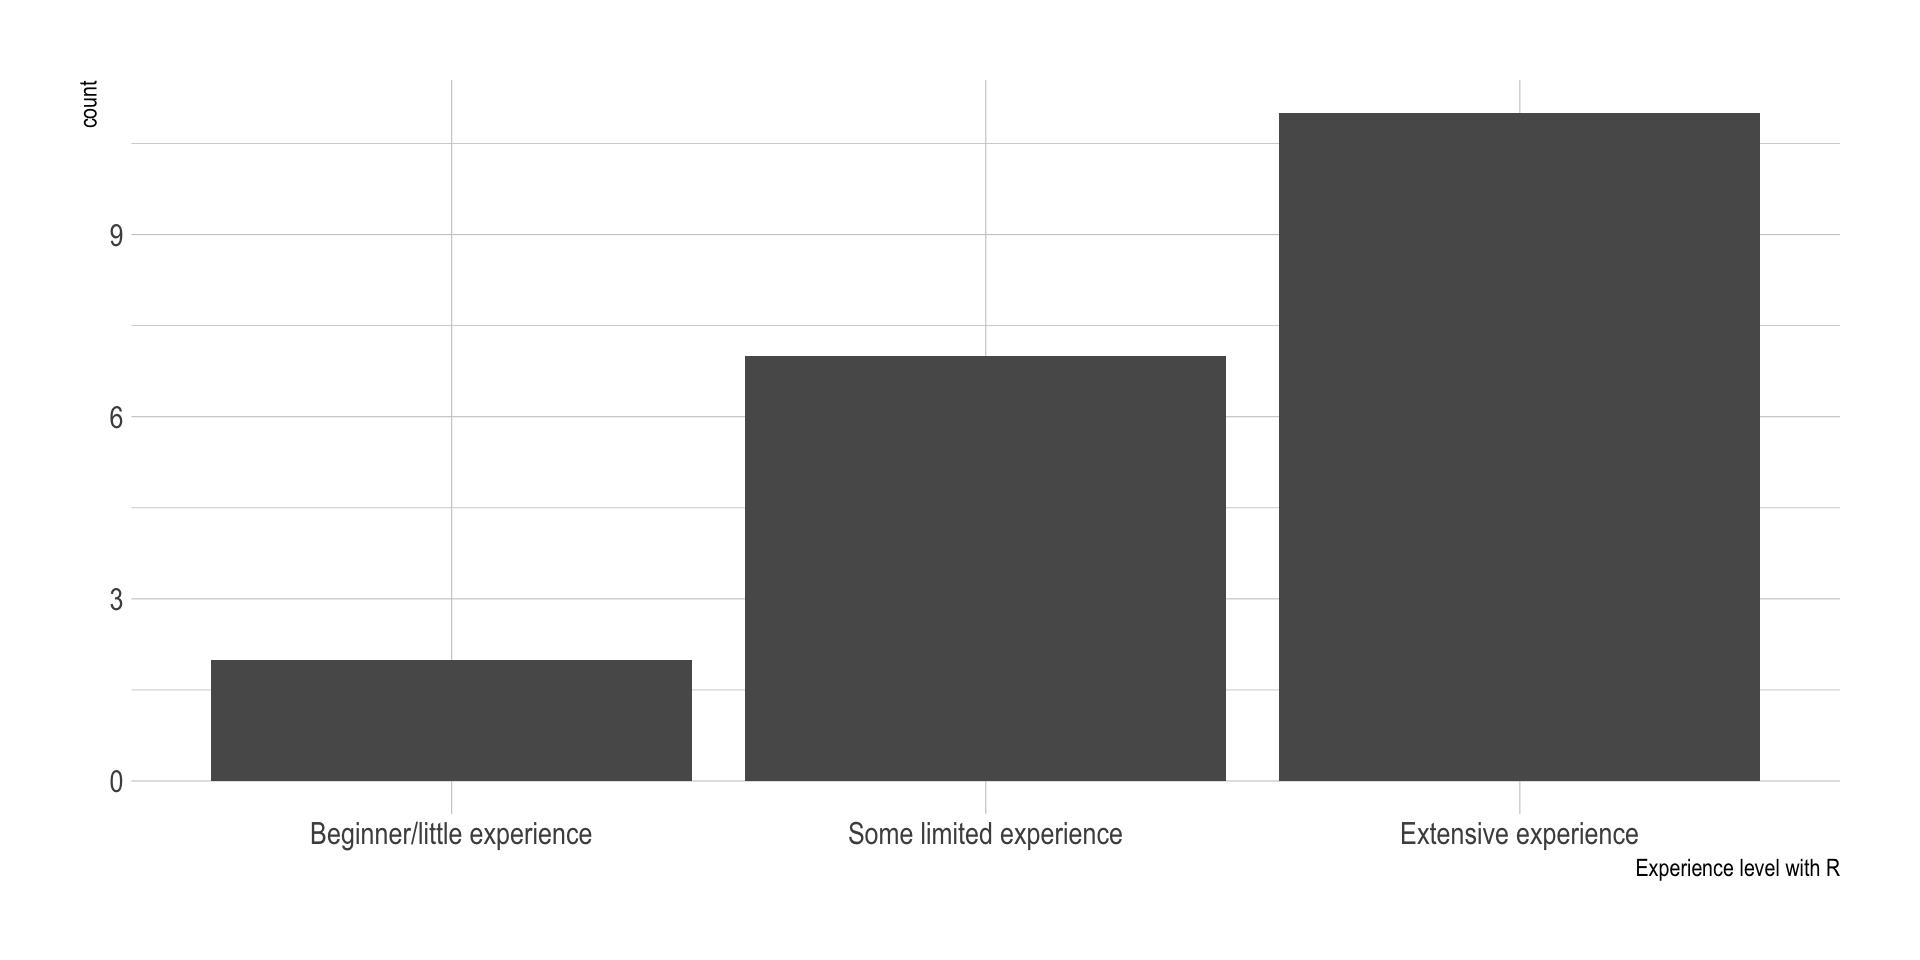
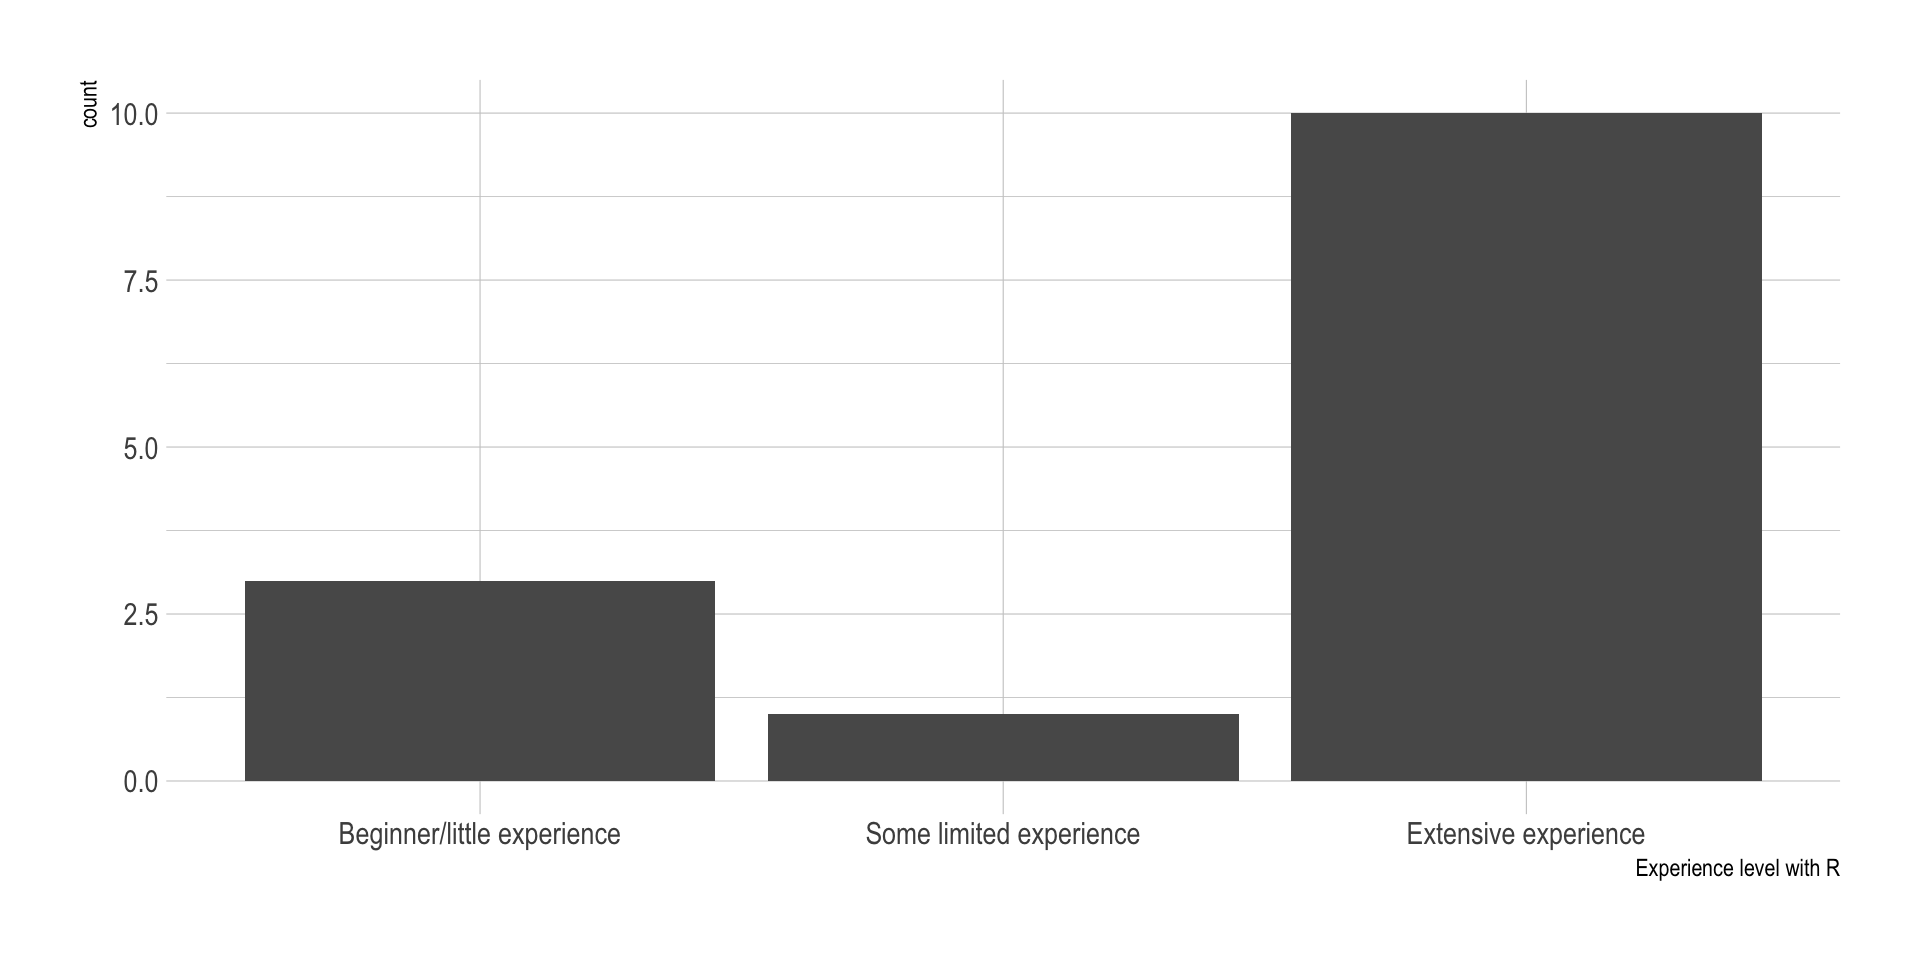
updated lecture

diff --git a/lectures/welcome_and_introduction/welcome_and_introduction.html b/lectures/welcome_and_introduction/welcome_and_introduction.html
@@ -343,57 +343,50 @@
 <h2>Logistics</h2>
 <ul>
 <li><strong>Wi-Fi</strong> Network: guest-net (no password). Open any webpage on your browser, a pop-up will appear to connect to guest Wi-Fi. Accept terms to gain access.</li>
-<li><strong>Restrooms</strong>. Directly outside the classroom.</li>
-<li><strong>Course materials</strong>. All Material (lectures/labs) is located on Posit Cloud. You were invited to the ‘sharp_bayesian_environmental_health_2025’ Workspace via email earlier this week.</li>
+<li><strong>Restrooms</strong>. Directly outside the classroom to the right.</li>
+<li><strong>Course materials</strong>. All Material (lectures/labs) is located on Posit Cloud. You were invited to the ‘sharp_bayesian_environmental_health_2025’ workspace via email earlier this week.</li>
 <li><strong>Name tags</strong>. Please wear during workshop to make connecting with others easier! Please return after the Workshop to help us be greener.</li>
-<li>Contact Meaghan Doherty <strong>[phone redacted]</strong> for assistance</li>
+<li>Contact Meaghan Doherty <strong>[phone redacted]</strong> for assistance.</li>
 </ul>
 </section>
-<section id="overview-of-workshop" class="slide level2 bigger">
+<section id="overview-of-workshop" class="slide level2">
 <h2>Overview of workshop</h2>
-<div style="font-size: 130%;">
-<p>The <strong>Bayesian Modeling for Environmental Health Workshop</strong> is a two-day intensive course of seminars and hands-on sessions to provide an <em>approachable</em> and <em>practical</em> overview of <strong>concepts</strong>, <strong>techniques</strong>, and <strong>data analysis methods</strong> used in Bayesian modeling with applications in Environmental Health.</p>
-</div>
+<!-- ::: {style="font-size: 130%;"} -->
+<p>The <strong>Bayesian Modeling for Environmental Health Workshop</strong> is a two-day intensive course of seminars and hands-on sessions to provide an <em>approachable</em> and <em>practical</em> overview of <strong>concepts</strong>, <strong>techniques</strong>, and <strong>data analysis methods</strong> used in Bayesian modeling with applications in Environmental Health. <!-- ::: --></p>
 </section>
-<section id="overview-of-workshop-1" class="slide level2 smaller">
+<section id="overview-of-workshop-1" class="slide level2">
 <h2>Overview of workshop</h2>
 <div>
 <ul>
 <li class="fragment"><p>By the end of the workshop, participants should be familiar with the following topics:</p>
 <ul>
 <li class="fragment">Principles of Bayesian statistics</li>
-<li class="fragment">Practicalities of Bayesian inference</li>
-<li class="fragment">Priors and choosing them</li>
-<li class="fragment">Advantages and drawbacks of Bayesian approaches</li>
 <li class="fragment">Bayesian workflow</li>
-<li class="fragment">Temporal modeling</li>
-<li class="fragment">Spatial modeling</li>
-<li class="fragment">Spatio-temporal modeling</li>
 <li class="fragment">Hierarchical modeling</li>
-<li class="fragment">Exposure-response functions</li>
+<li class="fragment">Non-linear regression</li>
+<li class="fragment">Spatial and spatio-temporal modeling</li>
 <li class="fragment">Software options</li>
-<li class="fragment">Advanced uses</li>
+<li class="fragment">Advanced models</li>
 </ul></li>
 </ul>
 </div>
 </section>
-<section id="bayesian-modelling-workshop-team-needs-to-update" class="slide level2">
-<h2>Bayesian Modelling Workshop Team (needs to update)</h2>
-
-<img data-src="assets/instructor.png" class="r-stretch"></section></section>
-<section>
-<section id="workshop-2024-needs-to-update-with-photo-from-last-year" class="title-slide slide level1 center">
-<h1>Workshop 2024 (needs to update with photo from last year)</h1>
+<section id="bayesian-modelling-workshop-team" class="slide level2">
+<h2>Bayesian Modelling Workshop Team</h2>
 
 <img data-src="assets/instructor.png" class="r-stretch"></section>
-<section id="us-states-1-country-needs-to-update" class="slide level2">
-<h2>13 US States + 1 country (needs to update)</h2>
+<section id="us-states-1-country" class="slide level2">
+<h2>13 US States + 1 country</h2>
 
-<img data-src="assets/attendee_map.png" class="r-stretch"></section>
+<img data-src="assets/attendee_map.jpg" class="r-stretch"></section>
 <section id="day-1-august-14th-2025" class="slide level2">
 <h2>Day 1 (August 14th 2025)</h2>
 <div style="font-size: 50%;">
 <table>
+<colgroup>
+<col style="width: 36%">
+<col style="width: 63%">
+</colgroup>
 <thead>
 <tr class="header">
 <th>Time</th>
@@ -407,11 +400,11 @@
 </tr>
 <tr class="even">
 <td>9:00 - 9:15</td>
-<td><a href="/lectures/welcome_and_introduction/welcome_and_introduction.qmd">Welcome and introduction</a></td>
+<td>Welcome and introduction</td>
 </tr>
 <tr class="odd">
 <td>9:15 - 10:00</td>
-<td><a href="/lectures/introduction_to_bayesian_methods/introduction_to_bayesian_methods.qmd">Introduction to Bayesian methods and regression</a> (Lecture)</td>
+<td>Principles of Bayesian statistics (lecture)</td>
 </tr>
 <tr class="even">
 <td>10:00 - 10:15</td>
@@ -419,7 +412,7 @@
 </tr>
 <tr class="odd">
 <td>10:15 - 11:00</td>
-<td><a href="/labs/introduction_to_bayesian_methods/introduction_to_bayesian_methods.qmd">Introduction to Bayesian methods and regression</a> (Hands-on Lab)</td>
+<td>Principles of Bayesian statistics (hands-on lab)</td>
 </tr>
 <tr class="even">
 <td>11:00 - 11:15</td>
@@ -427,7 +420,7 @@
 </tr>
 <tr class="odd">
 <td>11:15 - 12:00</td>
-<td><a href="/lectures/bayesian_workflow/bayesian_workflow.qmd">Bayesian workflow</a> (Lecture)</td>
+<td>Bayesian workflow (lecture)</td>
 </tr>
 <tr class="even">
 <td>12:00 - 1:00</td>
@@ -435,7 +428,7 @@
 </tr>
 <tr class="odd">
 <td>1:00 - 1:45</td>
-<td><a href="/lectures/hierarchical_modelling/hierarchical_modelling.qmd">Hierarchical modeling</a> (Lecture)</td>
+<td>Hierarchical modeling (lecture)</td>
 </tr>
 <tr class="even">
 <td>1:45 - 2:00</td>
@@ -443,7 +436,7 @@
 </tr>
 <tr class="odd">
 <td>2:00 - 2:45</td>
-<td><a href="/labs/hierarchical_modelling/hierarchical_modelling.qmd">Hierarchical modelling</a> (Hands-on Lab)</td>
+<td>Hierarchical modelling (hands-on lab)</td>
 </tr>
 <tr class="even">
 <td>2:45 - 3:00</td>
@@ -451,7 +444,7 @@
 </tr>
 <tr class="odd">
 <td>3:00 - 3:45</td>
-<td><a href="/lectures/non_linear_regression/non_linear_regression.qmd">Non-linear regression</a> (Lecture)</td>
+<td>Non-linear regression (lecture)</td>
 </tr>
 <tr class="even">
 <td>3:45 - 4:00</td>
@@ -459,7 +452,7 @@
 </tr>
 <tr class="odd">
 <td>4:00 - 4:45</td>
-<td><a href="/labs/non_linear_regression/non_linear_regression.qmd">Non-linear regression</a> (Hands-on Lab)</td>
+<td>Non-linear regression (hands-on lab)</td>
 </tr>
 <tr class="even">
 <td>4:45 - 5:00</td>
@@ -473,6 +466,10 @@
 <h2>Day 2 (August 15th 2025)</h2>
 <div style="font-size: 50%;">
 <table>
+<colgroup>
+<col style="width: 36%">
+<col style="width: 63%">
+</colgroup>
 <thead>
 <tr class="header">
 <th>Time</th>
@@ -486,7 +483,7 @@
 </tr>
 <tr class="even">
 <td>9:00 - 10:00</td>
-<td><a href="/lectures/spatial_and_spatiotemporal_modeling/spatial_and_spatiotemporal_modeling.qmd">Spatial and spatio-temporal modeling</a> (Lecture)</td>
+<td>Spatial and spatio-temporal modeling (Lecture)</td>
 </tr>
 <tr class="odd">
 <td>10:00 - 10:15</td>
@@ -494,7 +491,7 @@
 </tr>
 <tr class="even">
 <td>10:15 - 11:00</td>
-<td><a href="/labs/spatial_and_spatiotemporal_modeling/spatial_and_spatiotemporal_modeling.qmd">Spatial and spatio-temporal modelling</a> (Hands-on Lab)</td>
+<td>Spatial and spatio-temporal modelling (Hands-on Lab)</td>
 </tr>
 <tr class="odd">
 <td>11:00 - 11:15</td>
@@ -502,7 +499,7 @@
 </tr>
 <tr class="even">
 <td>11:15 - 12:00</td>
-<td><a href="lectures/software_options/software_options.qmd">Software options</a> (Lecture)</td>
+<td>Software options (Lecture)</td>
 </tr>
 <tr class="odd">
 <td>12:00 - 1:00</td>
@@ -510,7 +507,7 @@
 </tr>
 <tr class="even">
 <td>1:00 - 1:45</td>
-<td><a href="/labs/software_options/software_options.qmd">Software options</a> (Hands-on Lab)</td>
+<td>Software options (Hands-on Lab)</td>
 </tr>
 <tr class="odd">
 <td>1:45 - 2:00</td>
@@ -518,7 +515,7 @@
 </tr>
 <tr class="even">
 <td>2:00 - 2:45</td>
-<td><a href="lectures/advanced_models/advanced_models.qmd">Advanced models</a> (Lecture)</td>
+<td>Advanced models (Lecture)</td>
 </tr>
 <tr class="odd">
 <td>2:45 - 3:00</td>
@@ -526,11 +523,11 @@
 </tr>
 <tr class="even">
 <td>3:00 - 3:45</td>
-<td><a href="/labs/advanced_models/advanced_models.qmd">Advanced models</a> (Hands-on Lab)</td>
+<td>Advanced models (Hands-on Lab)</td>
 </tr>
 <tr class="odd">
 <td>3:45 - 4:30</td>
-<td>Workshop summary, interactive panel discussion &amp; course wrap-up</td>
+<td>Interactive panel discussion &amp; course wrap-up</td>
 </tr>
 <tr class="even">
 <td>4:30 - 5:00</td>
@@ -570,48 +567,14 @@
 <!-- ## What does a 50% chance of rain mean to you? {.smaller} -->
 <!-- - Met Office (UK): A 50% chance of rain represents a 5 in 10 chance that rain will fall at some point during that period. -->
 <img data-src="welcome_and_introduction_files/figure-revealjs/unnamed-chunk-1-1.png" width="960" class="r-stretch"></section>
-<section id="what-do-you-understand-from-a-95-confidence-interval-ci" class="slide level2 smaller">
-<h2>What do you understand from a 95% Confidence Interval (CI)?</h2>
-<ul>
-<li>XX</li>
-</ul>
-</section>
-<section id="what-do-you-understand-from-a-95-confidence-interval-ci-1" class="slide level2 smaller">
-<h2>What do you understand from a 95% Confidence Interval (CI)?</h2>
-<ul>
-<li>XX</li>
-</ul>
-</section>
-<section id="what-do-you-understand-from-a-95-confidence-interval-ci-2" class="slide level2 smaller">
-<h2>What do you understand from a 95% Confidence Interval (CI)?</h2>
-<ul>
-<li>XX</li>
-</ul>
-</section>
-<section id="what-do-you-understand-from-a-95-confidence-interval-ci-3" class="slide level2 smaller">
-<h2>What do you understand from a 95% Confidence Interval (CI)?</h2>
-<ul>
-<li>XX</li>
-</ul>
-</section>
-<section id="what-do-you-understand-from-a-95-confidence-interval-ci-4" class="slide level2 smaller">
-<h2>What do you understand from a 95% Confidence Interval (CI)?</h2>
-<div>
-<ul>
-<li class="fragment">Frequentist framework: If we were to repeat the data collection process 100 times and construct confidence intervals for each sample, 95 of those would contain the true parameter (i.e., the target parameter is fixed but unknown, and the interval is random, in other words, there exists a true value of the target parameter, and we may or may not be capturing it with the 95% CI).</li>
-<li class="fragment">Bayesian framework: Given the observed data and our prior beliefs, there is a 95% probability that the true parameter value falls within the credible interval (i.e., target parameter is random but interval is fixed).</li>
-<li class="fragment">Philosophical difference but with differences in methodology and use cases.</li>
-</ul>
-</div>
-</section>
 <section id="logistics-1" class="slide level2 smaller">
 <h2>Logistics</h2>
 <ul>
-<li><strong>Wi-Fi</strong> Network: guest-net (no password). Open any webpage (i.e.&nbsp;BBC News, Amazon, etc.) on your browser, a pop-up will appear to connect to guest Wi-Fi. Accept terms to gain access.</li>
-<li><strong>Restrooms</strong>. Directly outside the classroom (women on the left, men on the right)</li>
-<li><strong>Course materials</strong>. All Material (lectures/labs) is located on Posit Cloud. You were invited to the ‘sharp_bayesian_environmental_health_2023’ Workspace via email on Sunday 8/12.</li>
+<li><strong>Wi-Fi</strong> Network: guest-net (no password). Open any webpage on your browser, a pop-up will appear to connect to guest Wi-Fi. Accept terms to gain access.</li>
+<li><strong>Restrooms</strong>. Directly outside the classroom to the right.</li>
+<li><strong>Course materials</strong>. All Material (lectures/labs) is located on Posit Cloud. You were invited to the ‘sharp_bayesian_environmental_health_2025’ workspace via email earlier this week.</li>
 <li><strong>Name tags</strong>. Please wear during workshop to make connecting with others easier! Please return after the Workshop to help us be greener.</li>
-<li>Contact Meaghan Doherty <strong>[phone redacted]</strong> for assistance</li>
+<li>Contact Meaghan Doherty <strong>[phone redacted]</strong> for assistance.</li>
 </ul>
 </section></section>
 <section id="questions" class="title-slide slide level1 center">

diff --git a/README.md b/README.md
@@ -22,9 +22,9 @@ Below is the set of labs to follow throughout the two days:
 |----|----|
 | 8:30 - 9:00 | Check in and breakfast |
 | 9:00 - 9:15 | [Welcome and introduction](/lectures/welcome_and_introduction/welcome_and_introduction.qmd) |
-| 9:15 - 10:00 | [Introduction to Bayesian methods and regression](/lectures/introduction_to_bayesian_methods/introduction_to_bayesian_methods.qmd) (Lecture) |
+| 9:15 - 10:00 | [Principles of Bayesian statistics](/lectures/introduction_to_bayesian_methods/introduction_to_bayesian_methods.qmd) (Lecture) |
 | 10:00 - 10:15 | Break |
-| 10:15 - 11:00 | [Introduction to Bayesian methods and regression](/labs/introduction_to_bayesian_methods/introduction_to_bayesian_methods.qmd) (Hands-on Lab) |
+| 10:15 - 11:00 | [Principles of Bayesian statistics](/labs/introduction_to_bayesian_methods/introduction_to_bayesian_methods.qmd) (Hands-on Lab) |
 | 11:00 - 11:15 | Break |
 | 11:15 - 12:00 | [Bayesian workflow](/lectures/bayesian_workflow/bayesian_workflow.qmd) (Lecture) |
 | 12:00 - 1:00 | Lunch |